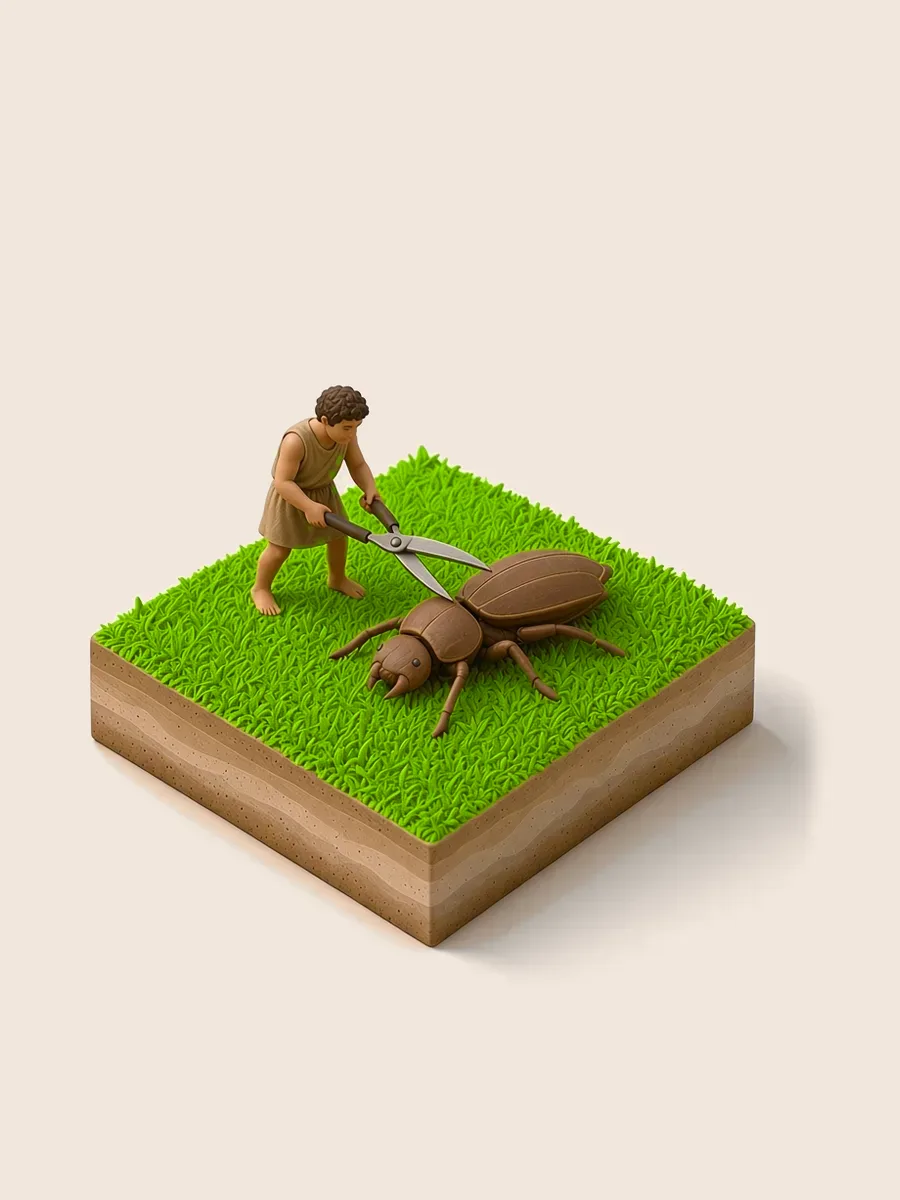
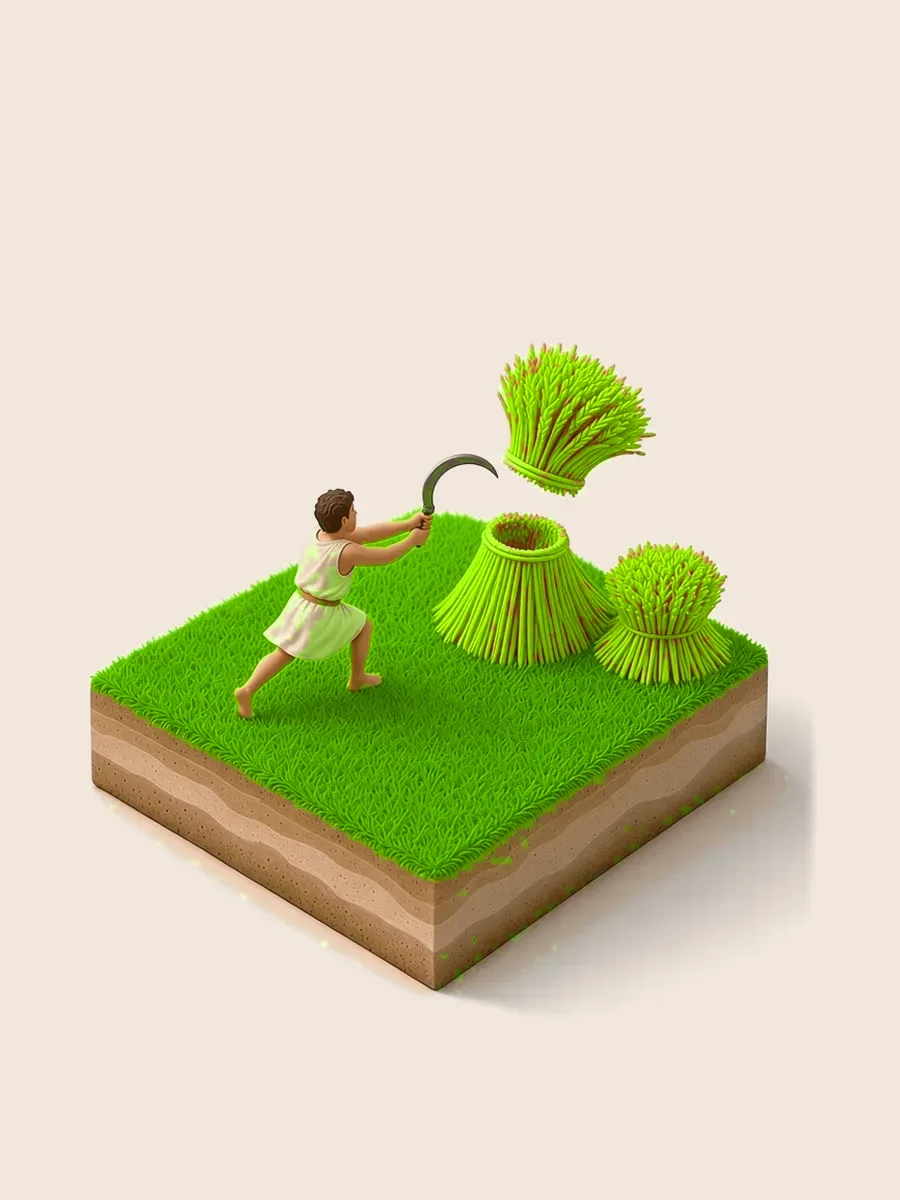
第六批插画：十张新卡，并重画 sec。 (#9)
son、sum、tang、terr、tort、val、vinc、viv、volv、fid 换成插画。sec 换成收割切开麦捆的新图。有插画的词根一共 100 条。词条列表不改。

Changed region(s): [[0.0933, 0.2775, 0.9022, 0.8633]]

diff --git a/src/data/rootColors.ts b/src/data/rootColors.ts
@@ -96,11 +96,21 @@ export const rootColors: Record<string, RootColor> = {
   prehend: { hue: 49.7, accent: '#D38A61', deep: '#7B4627', wash: '#FFEBE1', skyTop: '#FFE1D1', skyBottom: '#FCF6EC', spark: '#8FC7E2', steps: ['#FDF9F7', '#FBF4F0', '#FFEBE1', '#FEE5D8', '#FCDCCB', '#F9D1BB', '#EFB89B', '#DF9E7A', '#D38A61', '#B6744F', '#7B4627', '#522E18'] },
   quer: { hue: 102.0, accent: '#BEB461', deep: '#60570A', wash: '#F3F1DE', skyTop: '#EDE9CB', skyBottom: '#F3F9EF', spark: '#B6B9EA', steps: ['#FBFBF7', '#F7F6EE', '#F3F1DE', '#EFECD4', '#E8E5C5', '#E1DCB4', '#CFC88F', '#BBB26B', '#BEB461', '#92883C', '#60570A', '#3F390B'] },
   sci: { hue: 307.1, accent: '#AF8CD1', deep: '#62487A', wash: '#F4ECFD', skyTop: '#EFE1FD', skyBottom: '#FEF3FA', spark: '#B1C796', steps: ['#FBFAFD', '#F7F4FB', '#F4ECFD', '#F0E6FC', '#EBDCFA', '#E4D2F7', '#D2B9EC', '#BFA0DD', '#AF8CD1', '#9676B5', '#62487A', '#412F52'] },
-  sec: { hue: 130.9, accent: '#87AC65', deep: '#455F2A', wash: '#EAF4E2', skyTop: '#DFEED2', skyBottom: '#EFFAF3', spark: '#CCB2E0', steps: ['#F9FBF8', '#F3F7F0', '#EAF4E2', '#E3F0DA', '#DAEACD', '#CEE2BD', '#B5D09D', '#9BBC7E', '#87AC65', '#729352', '#455F2A', '#2D3F1A'] },
+  sec: { hue: 135.4, accent: '#81AD6A', deep: '#40602E', wash: '#E9F4E3', skyTop: '#DDEED4', skyBottom: '#EEFAF4', spark: '#CFB1DD', steps: ['#F9FBF8', '#F3F7F0', '#E9F4E3', '#E2F0DB', '#D7EACE', '#CBE3C0', '#B1D1A1', '#96BD82', '#81AD6A', '#6C9457', '#40602E', '#293F1D'] },
   serv: { hue: 74.4, accent: '#D9A762', deep: '#734D0C', wash: '#FAEEDE', skyTop: '#F8E5CB', skyBottom: '#F8F8EC', spark: '#9FC1EB', steps: ['#FCFAF7', '#FAF5EE', '#FAEEDE', '#F8E8D4', '#F4E0C5', '#F0D6B4', '#E3BF8F', '#D2A76B', '#D9A762', '#A97D3D', '#734D0C', '#4B330C'] },
   sign: { hue: 31.0, accent: '#D78576', deep: '#7E4238', wash: '#FFEBE7', skyTop: '#FFE0DA', skyBottom: '#FFF5ED', spark: '#87CAD7', steps: ['#FEF9F8', '#FCF3F1', '#FFEBE7', '#FFE4DE', '#FEDAD3', '#FCCEC5', '#F2B4A8', '#E3998C', '#D78576', '#BA6F62', '#7E4238', '#542B24'] },
   simil: { hue: 346.5, accent: '#CE83AB', deep: '#77415F', wash: '#FDE9F3', skyTop: '#FDDEED', skyBottom: '#FFF4F4', spark: '#92CDB4', steps: ['#FDF9FB', '#FBF3F7', '#FDE9F3', '#FCE3EF', '#F9D9E9', '#F6CDE2', '#EBB3D0', '#DB98BB', '#CE83AB', '#B16E92', '#77415F', '#4F2A3F'] },
   solv: { hue: 158.7, accent: '#5FB286', deep: '#226444', wash: '#E3F5EA', skyTop: '#D2F1DE', skyBottom: '#ECFAF9', spark: '#DDADCD', steps: ['#F8FBF9', '#F0F8F3', '#E3F5EA', '#DAF2E3', '#CDECD9', '#BDE6CD', '#9CD5B4', '#7BC19A', '#5FB286', '#4C9870', '#226444', '#15422C'] },
+  son: { hue: 274.5, accent: '#8A99DF', deep: '#475185', wash: '#EBEFFF', skyTop: '#E1E7FF', skyBottom: '#F9F5FF', spark: '#CCBE8A', steps: ['#F9FAFE', '#F3F5FC', '#EBEFFF', '#E5EAFF', '#DBE2FF', '#CFD9FF', '#B7C3F7', '#9DABEA', '#8A99DF', '#7582C2', '#475185', '#2E3559'] },
+  sum: { hue: 71.2, accent: '#DBA663', deep: '#744C0F', wash: '#FBEDDE', skyTop: '#F9E4CC', skyBottom: '#F9F7EC', spark: '#9DC2EA', steps: ['#FDFAF7', '#FAF4EE', '#FBEDDE', '#F9E8D4', '#F6DFC6', '#F2D5B4', '#E5BE90', '#D4A66D', '#DBA663', '#AB7C3F', '#744C0F', '#4C320D'] },
+  tang: { hue: 29.3, accent: '#D88478', deep: '#7E4239', wash: '#FFEBE7', skyTop: '#FFE0DA', skyBottom: '#FFF5ED', spark: '#87CBD6', steps: ['#FEF9F8', '#FCF3F2', '#FFEBE7', '#FFE4DF', '#FEDAD3', '#FCCEC6', '#F3B4AA', '#E4998D', '#D88478', '#BA6F64', '#7E4239', '#542B25'] },
+  terr: { hue: 35.4, accent: '#D78671', deep: '#7E4334', wash: '#FFEBE5', skyTop: '#FFE0D8', skyBottom: '#FEF5ED', spark: '#88CADA', steps: ['#FEF9F8', '#FCF3F1', '#FFEBE5', '#FFE4DD', '#FEDAD1', '#FCCFC3', '#F2B5A5', '#E39A87', '#D78671', '#B9705D', '#7E4334', '#542B21'] },
+  tort: { hue: 44.8, accent: '#D48866', deep: '#7C452B', wash: '#FFEBE3', skyTop: '#FFE1D3', skyBottom: '#FDF6EC', spark: '#8CC8E0', steps: ['#FEF9F8', '#FCF3F0', '#FFEBE3', '#FEE5DA', '#FDDBCD', '#FAD0BE', '#F0B79E', '#E19D7E', '#D48866', '#B77354', '#7C452B', '#532D1B'] },
+  val: { hue: 144.9, accent: '#73AF75', deep: '#356237', wash: '#E6F5E6', skyTop: '#D8EFD8', skyBottom: '#EDFAF6', spark: '#D5AFD7', steps: ['#F8FBF8', '#F1F7F1', '#E6F5E6', '#DEF1DE', '#D3EBD2', '#C5E4C5', '#A8D3A8', '#8ABF8B', '#73AF75', '#5F9661', '#356237', '#224123'] },
+  vinc: { hue: 324.3, accent: '#BF87C3', deep: '#6D4470', wash: '#F9EAF9', skyTop: '#F6DFF7', skyBottom: '#FFF3F7', spark: '#A3CAA2', steps: ['#FCF9FC', '#F9F3F9', '#F9EAF9', '#F6E4F7', '#F2DAF3', '#EDCFEF', '#DFB6E1', '#CD9BD0', '#BF87C3', '#A472A8', '#6D4470', '#482C4A'] },
+  viv: { hue: 139.3, accent: '#7BAE6E', deep: '#3B6131', wash: '#E8F4E4', skyTop: '#DBEFD5', skyBottom: '#EEFAF5', spark: '#D2B0DB', steps: ['#F9FBF8', '#F2F7F1', '#E8F4E4', '#E0F0DC', '#D5EBD0', '#C9E4C2', '#ADD2A4', '#91BE85', '#7BAE6E', '#67955B', '#3B6131', '#26401F'] },
+  volv: { hue: 90.4, accent: '#CBAE5E', deep: '#695305', wash: '#F6F0DD', skyTop: '#F2E7CA', skyBottom: '#F5F8ED', spark: '#ACBCEC', steps: ['#FCFAF7', '#F8F5EE', '#F6F0DD', '#F3EAD3', '#EEE3C4', '#E8DAB2', '#D8C48E', '#C5AD69', '#CBAE5E', '#9D843A', '#695305', '#453609'] },
+  fid: { hue: 257.4, accent: '#74A0DF', deep: '#365684', wash: '#E7F1FF', skyTop: '#DAE9FF', skyBottom: '#F6F6FF', spark: '#D7B98B', steps: ['#F8FBFE', '#F1F6FC', '#E7F1FF', '#DFECFF', '#D3E5FF', '#C4DCFF', '#A7C8F7', '#8AB1E9', '#74A0DF', '#6088C1', '#365684', '#223958'] },
 };
 
 export function hasSampledColor(id: string): boolean {

diff --git a/src/lib/match.test.ts b/src/lib/match.test.ts
@@ -13,12 +13,12 @@ const authored = illustrated.filter((root) => !batchIllustrated.has(root.id));
 const batch = illustrated.filter((root) => batchIllustrated.has(root.id));
 
 describe('dataset', () => {
-  it('ships about 250 roots, with 90 paintings and the original 42 still fully written', () => {
+  it('ships about 250 roots, with 100 paintings and the original 42 still fully written', () => {
     expect(roots.length).toBe(250);
-    expect(illustrated).toHaveLength(90);
+    expect(illustrated).toHaveLength(100);
     expect(authored).toHaveLength(42);
-    expect(batch).toHaveLength(48);
-    expect(cream.length).toBe(roots.length - 90);
+    expect(batch).toHaveLength(58);
+    expect(cream.length).toBe(roots.length - 100);
     const words = roots.flatMap((root) => root.words.map((word) => word.word.toLowerCase()));
     expect(words.length).toBeGreaterThanOrEqual(300);
     expect(new Set(words).size).toBe(words.length);
@@ -121,6 +121,8 @@ describe('lookup', () => {
     expect(lookup('mortal')).toMatchObject({ kind: 'word', hit: { word: 'mortal', root: { id: 'mort', illustrated: true } } });
     expect(lookup('service')).toMatchObject({ kind: 'word', hit: { word: 'service', root: { id: 'serv', illustrated: true } } });
     expect(lookup('novel')).toMatchObject({ kind: 'word', hit: { word: 'novel', root: { id: 'nov', illustrated: true } } });
+    expect(lookup('section')).toMatchObject({ kind: 'word', hit: { word: 'section', root: { id: 'sec', illustrated: true } } });
+    expect(lookup('terrain')).toMatchObject({ kind: 'word', hit: { word: 'terrain', root: { id: 'terr', illustrated: true } } });
     expect(lookup('compose')).toMatchObject({ kind: 'word', hit: { word: 'compose', root: { id: 'pos' } } });
     expect(lookup('microbe')).toMatchObject({ kind: 'word', hit: { root: { id: 'micro', illustrated: false } } });
     expect(lookup('ped')).toMatchObject({ kind: 'root', root: { id: 'ped', illustrated: true } });

diff --git a/src/data/provisional.ts b/src/data/provisional.ts
@@ -73,6 +73,16 @@ export const batchIllustrated = new Set([
   'sign',
   'simil',
   'solv',
+  'son',
+  'sum',
+  'tang',
+  'terr',
+  'tort',
+  'val',
+  'vinc',
+  'viv',
+  'volv',
+  'fid',
 ]);
 
 const batchAlt: Record<string, string> = {
@@ -119,11 +129,21 @@ const batchAlt: Record<string, string> = {
   prehend: '渔夫双手抓住一条鱼，旁边堆着铜色的网。',
   quer: '提灯的人在被黄光照亮的地上寻找。',
   sci: '学者指着一块紫色的星图板，旁边有地球仪。',
-  sec: '剪刀把一只昆虫切成三段，地面是黄绿色的。',
+  sec: '收割的人用镰刀把一捆麦子从中间切开，地面是黄绿色的。',
   serv: '守望的人穿着青铜色长袍，在城垛上举着火把。',
   sign: '旗手举起一面巨大的深红军旗，站在红砖上。',
   simil: '两座几乎一样的雕像立在成对的基座上。',
   solv: '有人在解开绳结，旁边是一只宽口的青绿碗。',
+  son: '拱门下有人张嘴喊叫，周围看得见一圈圈声波。',
+  sum: '宴席上的客人从金色的盘子里取用食物。',
+  tang: '指尖触到一颗大理石球，球放在珊瑚色的圆盘上。',
+  terr: '农夫站在一层层陶土色的梯田上。',
+  tort: '一个人把铜色的绳子拧成一支火把。',
+  val: '两个人握手告别，旁边是一面很大的翠绿盾。',
+  vinc: '长翅膀的胜利女神在紫色的高台上给胜利者戴冠。',
+  viv: '浇过水之后，绿色的植物重新活过来，旁边还留着一截枯茎。',
+  volv: '一大卷纸莎草在底座上展开。',
+  fid: '蓝宝石色的祭坛前，两个人握手，旁边有一只忠诚的狗。',
 };
 
 function originOf(language: string): Origin {

diff --git a/README.md b/README.md
@@ -67,7 +67,7 @@ python3 scripts/depth_maps.py
 
 插画与代码都按 [MIT](LICENSE) 授权。
 
-图鉴里现在有 250 条词根。90 条有插画；其余先用奶油色卡片，词源故事已经写上，插画以后一张张补。
+图鉴里现在有 250 条词根。100 条有插画；其余先用奶油色卡片，词源故事已经写上，插画以后一张张补。
 
 ## 如何增加一条词根
 
